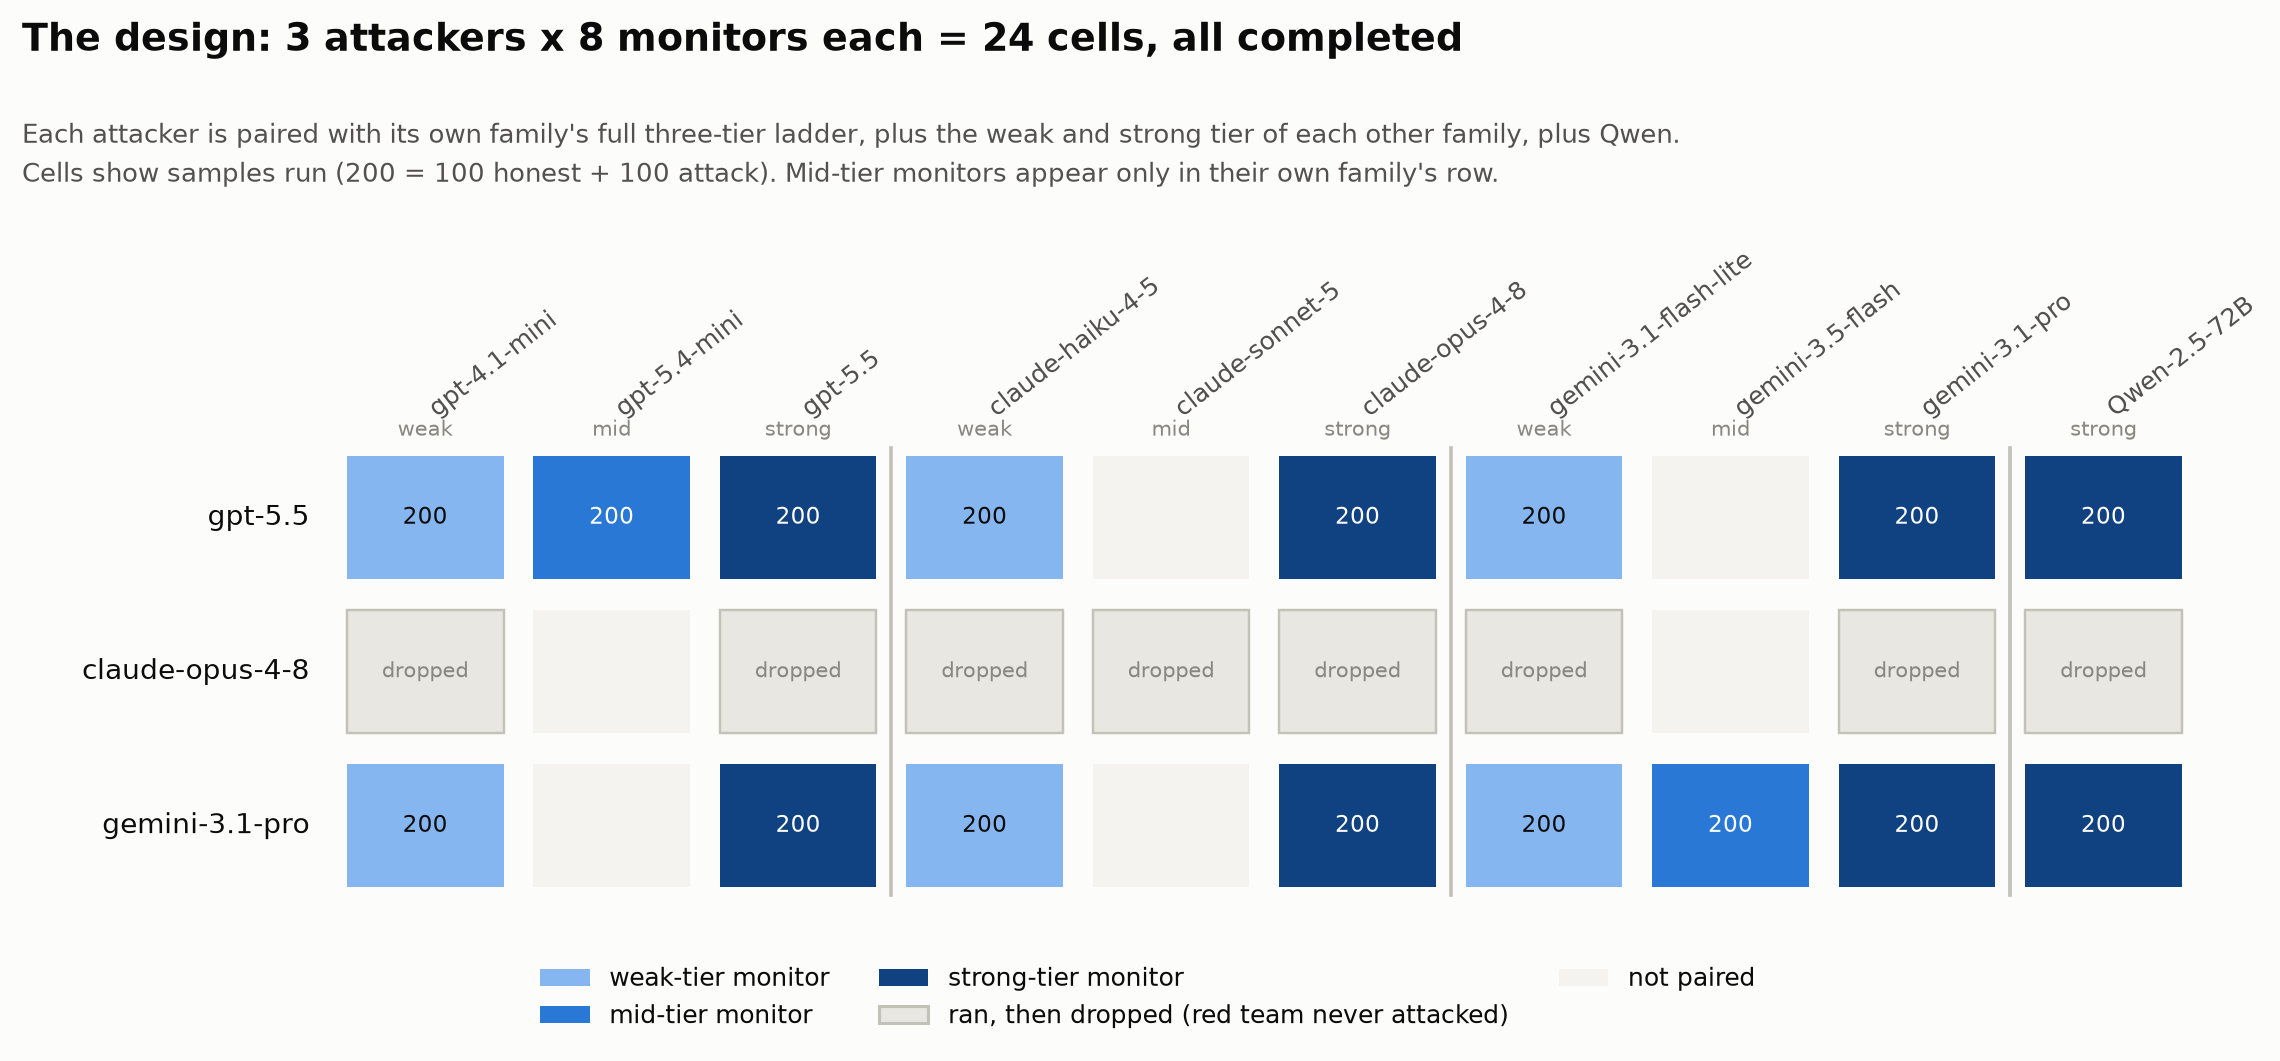
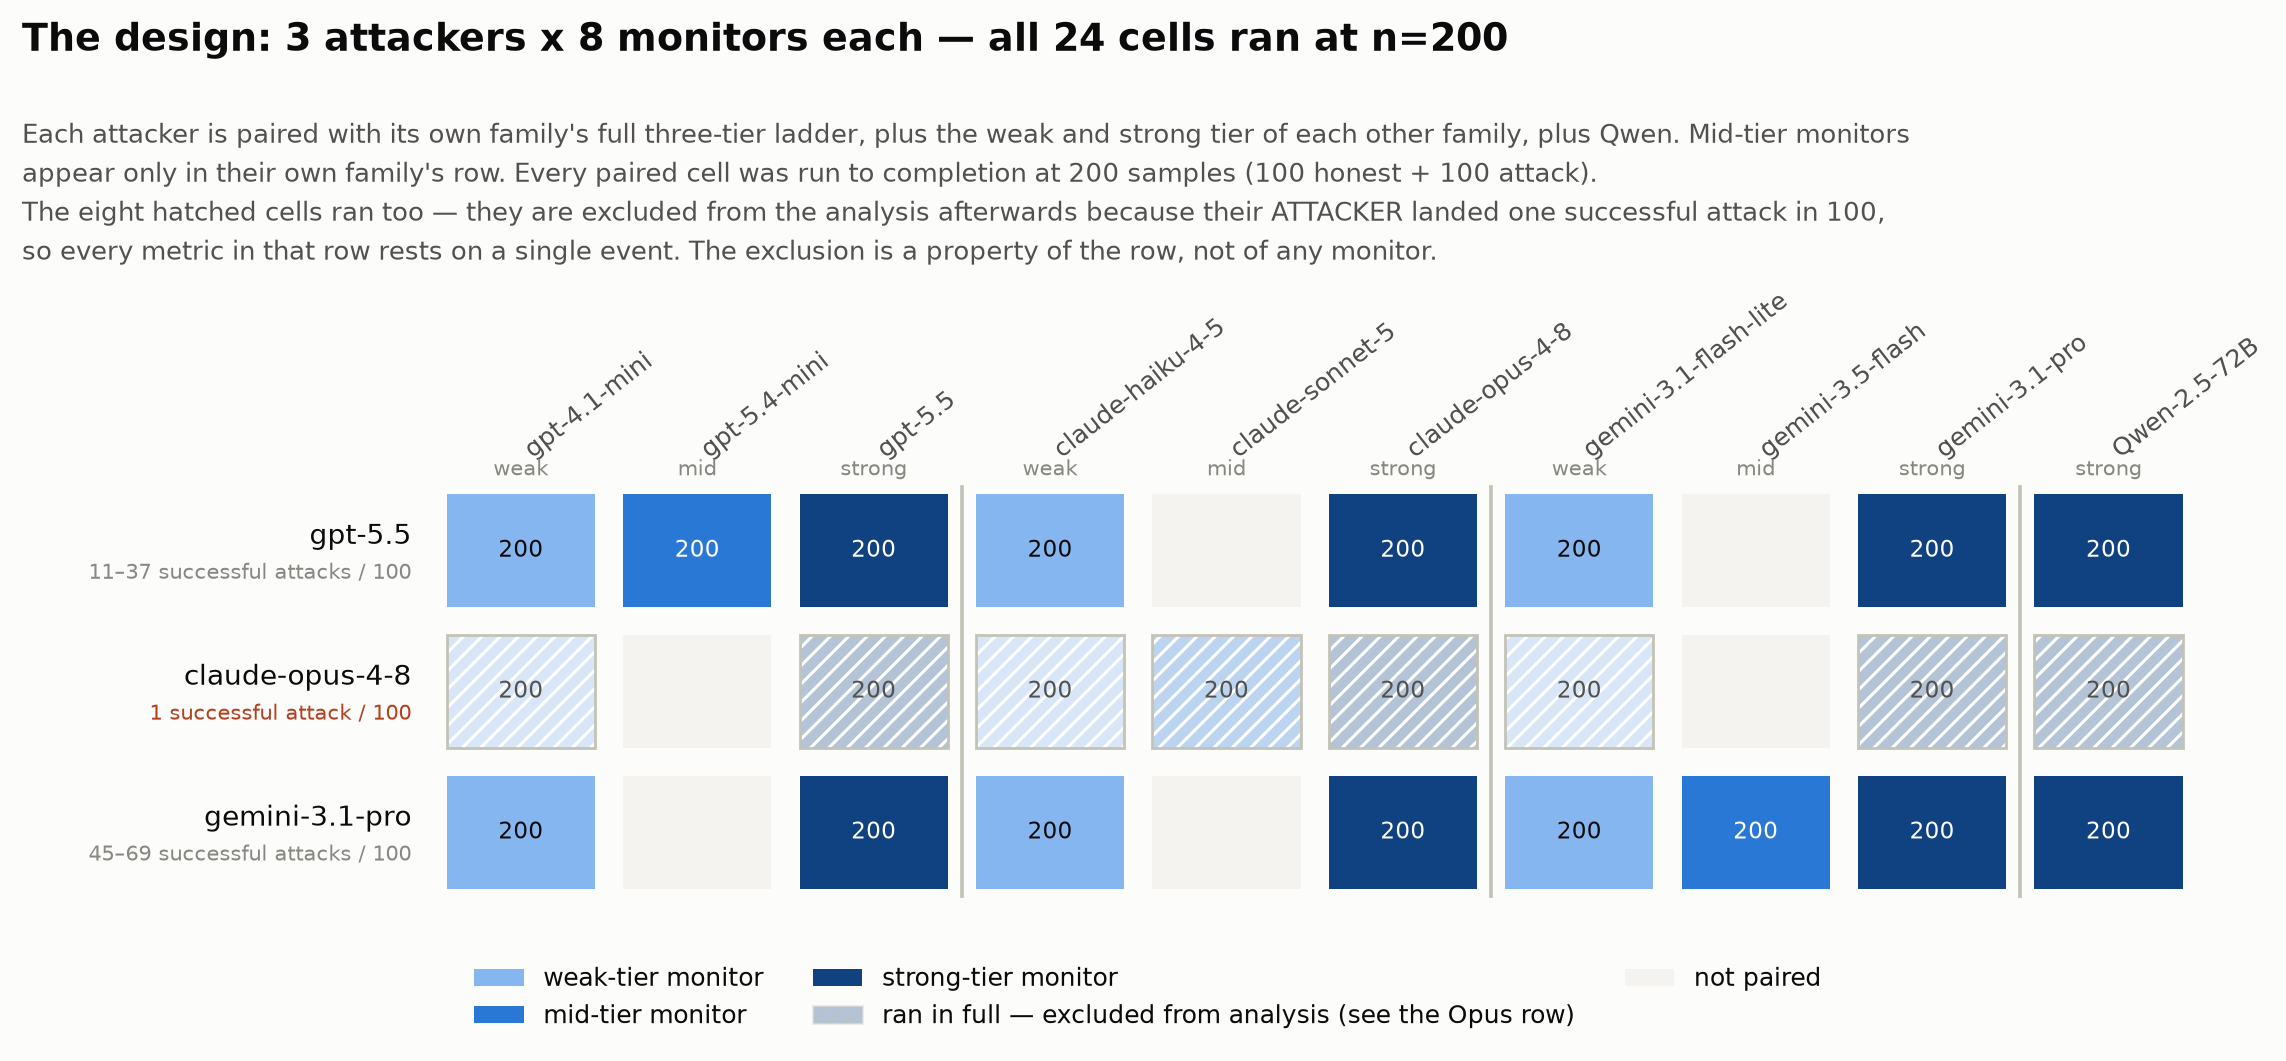
Design figure: show the Opus cells as run, not absent
The grid labelled the eight claude-opus-4-8 cells 'dropped' on a flat grey fill,
which reads as if they were never executed. They were: full n=200 each, roughly
10-11 MB of transcripts per cell, paid for like every other cell. The exclusion
happens afterwards, in the analysis, and it is a property of the ATTACKER row -
that model landed one successful attack in 100, so every metric in the row rests
on a single event and its AUCs all pin between 0.495 and 0.505.

Those cells now keep their tier colour and their 200-sample count, hatched to
mark the exclusion. Each attacker row is annotated with its successful-attack
range, which is where the cause actually lives: 11-37 for gpt-5.5, 45-69 for
gemini-3.1-pro, 1 for claude-opus-4-8.

Legend and title reworded from 'ran, then dropped' to 'ran in full - excluded
from analysis', and the subtitle now states the reason.

diff --git a/scripts/make_table_figures.py b/scripts/make_table_figures.py
@@ -124,6 +124,10 @@ def fig_design(scores: dict, out: str) -> None:
     ax.invert_yaxis()
     ax.axis("off")
 
+    # Every paired cell RAN at full n. The Opus row is excluded from analysis
+    # afterwards, at the row level, because that attacker landed one successful
+    # attack in 100 - so the cells still show their sample count and keep their
+    # tier colour, hatched to mark the exclusion rather than blanked out.
     for r, attacker in enumerate(ATTACKERS):
         for c, monitor in enumerate(monitors):
             box = dict(xy=(c - 0.42, r - 0.40), width=0.84, height=0.80)
@@ -131,14 +135,19 @@ def fig_design(scores: dict, out: str) -> None:
                 ax.add_patch(plt.Rectangle(**box, facecolor="#f4f3ef",
                                            edgecolor="none", zorder=1))
                 continue
-            dead = scores[(attacker, monitor)]["succ"].sum() < config.MIN_SUCCESSFUL_ATTACKS
-            if dead:
-                ax.add_patch(plt.Rectangle(**box, facecolor="#e8e7e1",
-                                           edgecolor=viz.BASELINE, lw=0.8, zorder=2))
-                ax.text(c, r, "dropped", ha="center", va="center", fontsize=6.9,
-                        color=viz.INK_MUTED, zorder=3)
+            tier_c = viz.TIER_COLOR[config.TIER[monitor]]
+            excluded = scores[(attacker, monitor)]["succ"].sum() < config.MIN_SUCCESSFUL_ATTACKS
+            if excluded:
+                ax.add_patch(plt.Rectangle(**box, facecolor=tier_c, alpha=0.30,
+                                           edgecolor="none", zorder=2))
+                ax.add_patch(plt.Rectangle(**box, facecolor="none", hatch="////",
+                                           edgecolor="#ffffff", lw=0.0, zorder=3))
+                ax.add_patch(plt.Rectangle(**box, facecolor="none",
+                                           edgecolor=viz.BASELINE, lw=0.9, zorder=4))
+                ax.text(c, r, "200", ha="center", va="center", fontsize=7.6,
+                        color=viz.INK_SECONDARY, zorder=5)
             else:
-                ax.add_patch(plt.Rectangle(**box, facecolor=viz.TIER_COLOR[config.TIER[monitor]],
+                ax.add_patch(plt.Rectangle(**box, facecolor=tier_c,
                                            edgecolor="none", zorder=2))
                 ax.text(c, r, "200", ha="center", va="center", fontsize=7.6,
                         color="#ffffff" if config.TIER[monitor] != "weak" else viz.INK, zorder=3)
@@ -148,9 +157,19 @@ def fig_design(scores: dict, out: str) -> None:
                 fontsize=8.1, color=viz.INK_SECONDARY)
         ax.text(c, -0.50, config.TIER[monitor], ha="center", va="bottom",
                 fontsize=6.8, color=viz.INK_MUTED)
+    # Row annotation: successful attacks per 100 is an ATTACKER property, and it
+    # is the reason the Opus row is excluded - so it belongs on the row, not in
+    # each cell.
     for r, attacker in enumerate(ATTACKERS):
-        ax.text(-0.62, r, config.LABEL[attacker], ha="right", va="center",
+        succ = [int(scores[(attacker, m)]["succ"].sum()) for m in monitors
+                if (attacker, m) in cells]
+        rng = f"{min(succ)}" if min(succ) == max(succ) else f"{min(succ)}–{max(succ)}"
+        noun = "successful attack" if max(succ) == 1 else "successful attacks"
+        ax.text(-0.62, r - 0.10, config.LABEL[attacker], ha="right", va="center",
                 fontsize=9.2, color=viz.INK)
+        ax.text(-0.62, r + 0.16, f"{rng} {noun} / 100", ha="right",
+                va="center", fontsize=7.0,
+                color="#b3401f" if max(succ) < config.MIN_SUCCESSFUL_ATTACKS else viz.INK_MUTED)
 
     # family separators
     boundaries = []
@@ -164,23 +183,27 @@ def fig_design(scores: dict, out: str) -> None:
         plt.Rectangle((0, 0), 1, 1, facecolor=viz.TIER_COLOR["weak"]),
         plt.Rectangle((0, 0), 1, 1, facecolor=viz.TIER_COLOR["mid"]),
         plt.Rectangle((0, 0), 1, 1, facecolor=viz.TIER_COLOR["strong"]),
-        plt.Rectangle((0, 0), 1, 1, facecolor="#e8e7e1", edgecolor=viz.BASELINE),
+        plt.Rectangle((0, 0), 1, 1, facecolor=viz.TIER_COLOR["strong"], alpha=0.30,
+                      hatch="////", edgecolor=viz.BASELINE),
         plt.Rectangle((0, 0), 1, 1, facecolor="#f4f3ef"),
     ]
     labels = ["weak-tier monitor", "mid-tier monitor", "strong-tier monitor",
-              "ran, then dropped (red team never attacked)", "not paired"]
+              "ran in full — excluded from analysis (see the Opus row)", "not paired"]
     fig.legend(handles, labels, loc="lower center", ncol=3, frameon=False,
                fontsize=8.1, bbox_to_anchor=(0.5, -0.06))
 
-    fig.suptitle("The design: 3 attackers x 8 monitors each = 24 cells, all completed",
+    fig.suptitle("The design: 3 attackers x 8 monitors each — all 24 cells ran at n=200",
                  fontsize=12.5, x=0.008, ha="left", color=viz.INK, fontweight="bold")
     ax.text(0, 1.0, "", transform=ax.transAxes)
     fig.text(0.008, 0.885,
-             "Each attacker is paired with its own family's full three-tier ladder, plus the weak and "
-             "strong tier of each other family, plus Qwen.\nCells show samples run (200 = 100 honest + "
-             "100 attack). Mid-tier monitors appear only in their own family's row.",
+             "Each attacker is paired with its own family's full three-tier ladder, plus the weak and strong "
+             "tier of each other family, plus Qwen. Mid-tier monitors\nappear only in their own family's row. "
+             "Every paired cell was run to completion at 200 samples (100 honest + 100 attack).\n"
+             "The eight hatched cells ran too — they are excluded from the analysis afterwards because their "
+             "ATTACKER landed one successful attack in 100,\nso every metric in that row rests on a single "
+             "event. The exclusion is a property of the row, not of any monitor.",
              ha="left", va="top", fontsize=8.5, color=viz.INK_SECONDARY, linespacing=1.5)
-    fig.tight_layout(rect=[0.02, 0.06, 1, 0.86])
+    fig.tight_layout(rect=[0.02, 0.06, 1, 0.82])
     fig.savefig(f"{out}/fig11_design.png", dpi=220, bbox_inches="tight")
     plt.close(fig)
 
